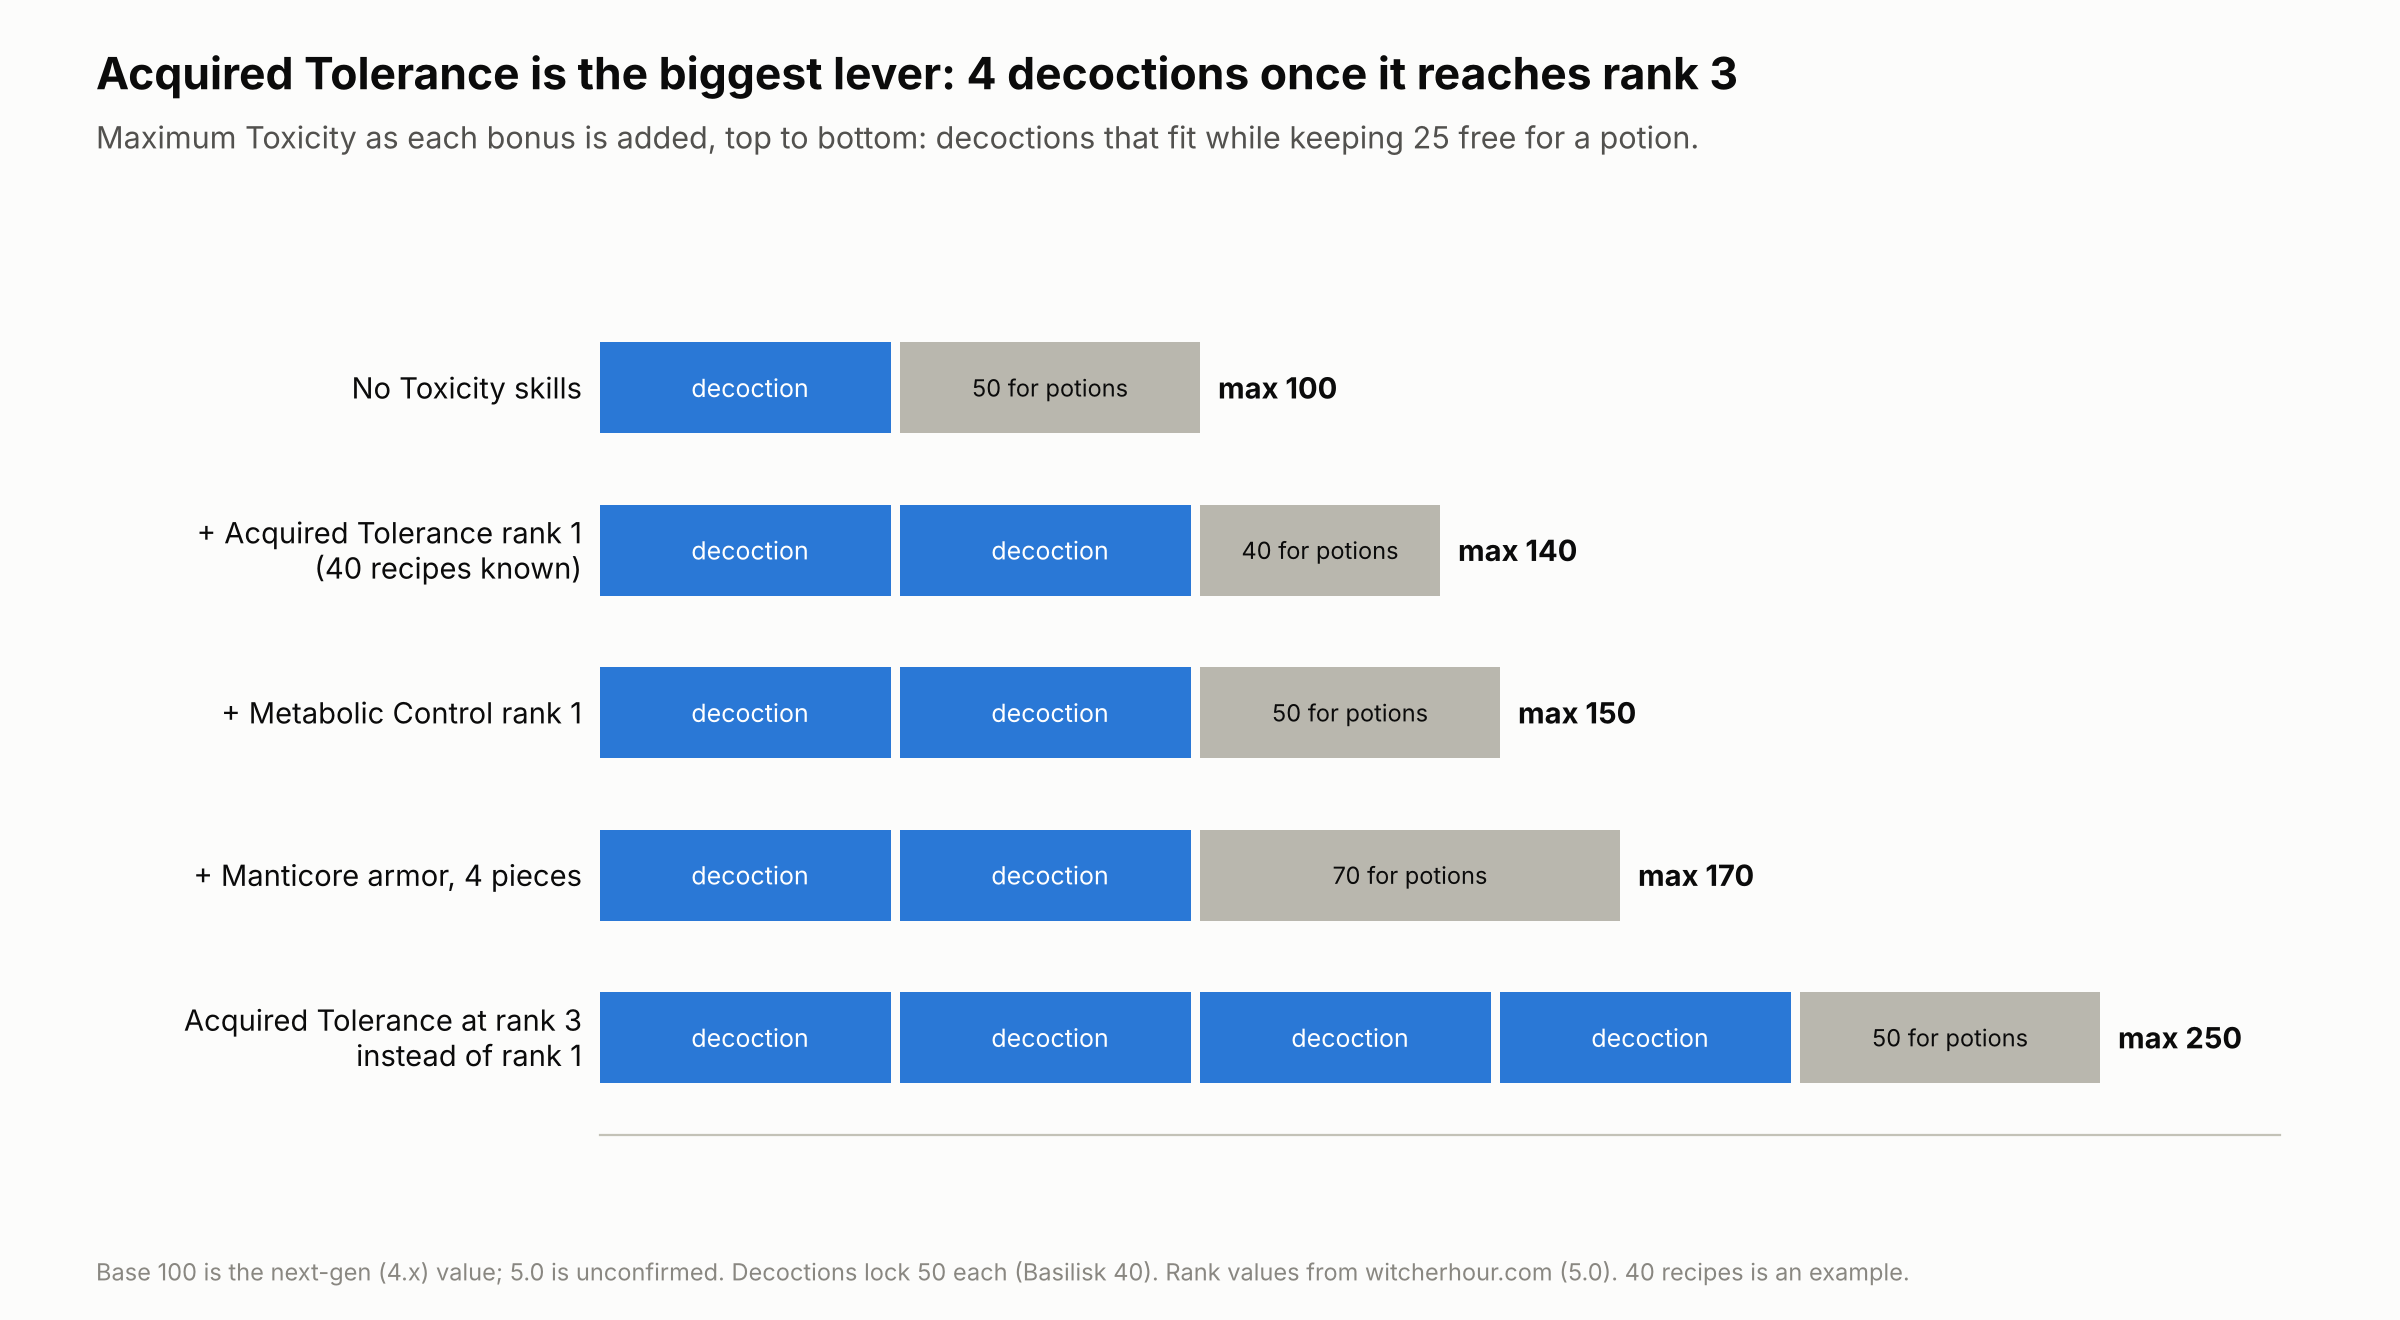
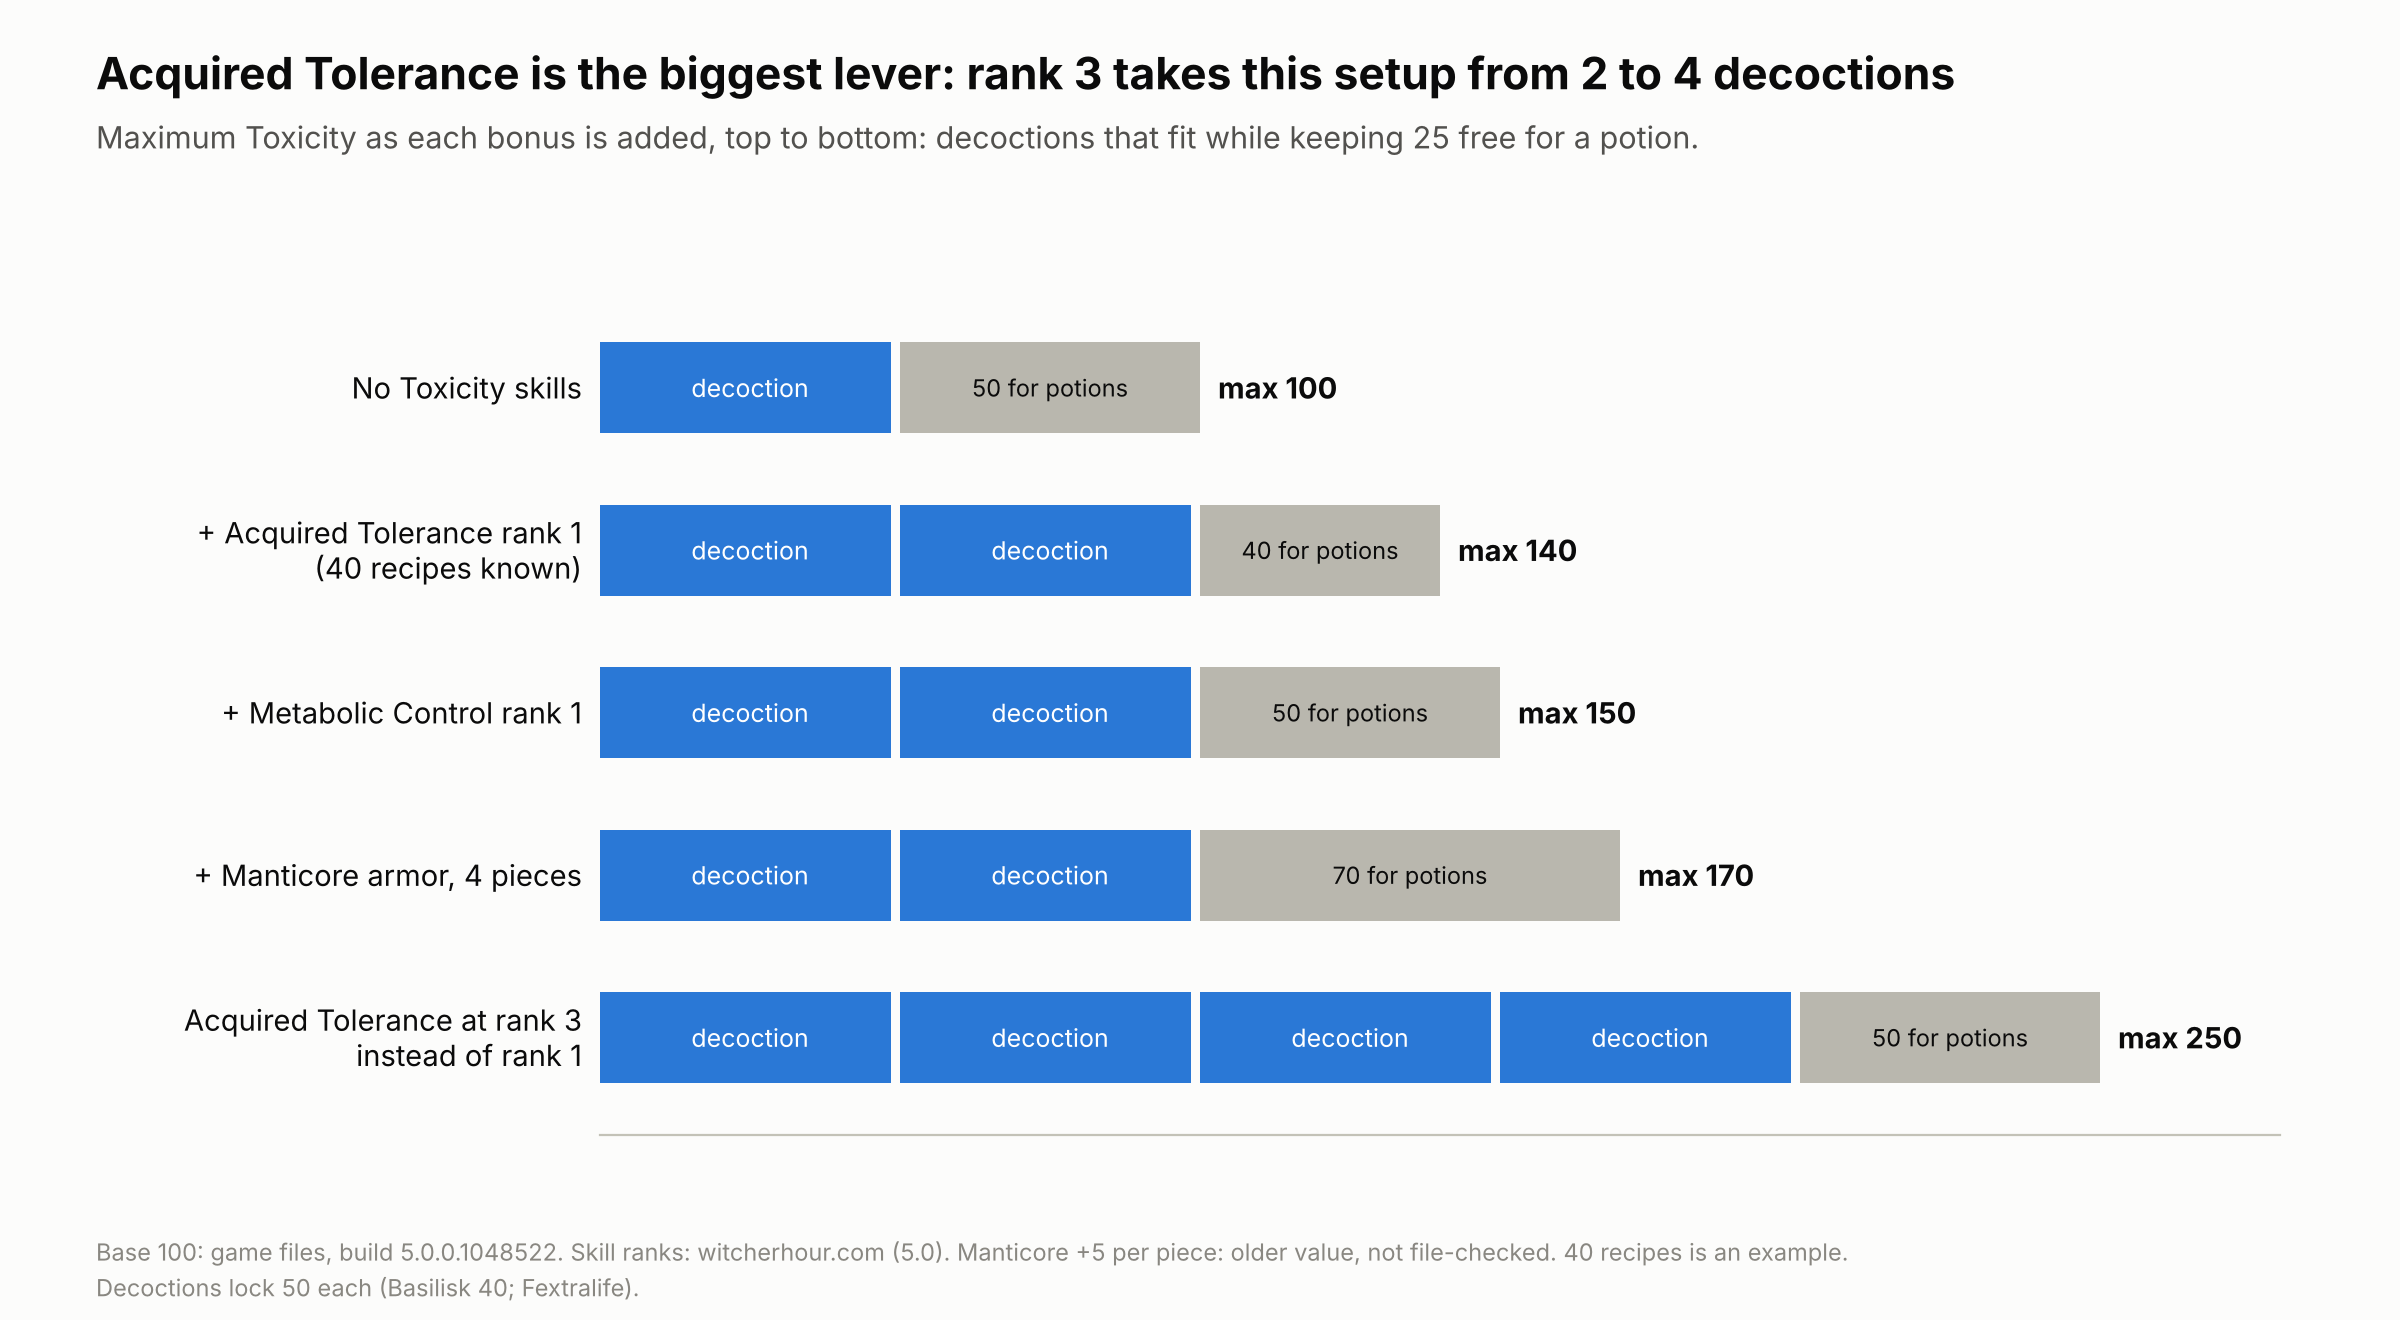
Sync remaining text and charts with the file audit
Carry the build 5.0.0.1048522 findings into the chapters the audit
commit didn't touch:

- Base crit chance (5%) and crit bonus (+0.25 to the attack-power
  multiplier) in chapter 1, replacing "no source publishes".
- Griffin School Techniques Stamina from the perk_24 coefficient
  (0.2% of max Stamina per rank and piece: 0.2/0.4/0.6 per piece,
  2.4/s for four at rank 3) in chapters 1, 3, 7 and 9, with the
  community +1/+4 figures noted as conflicting.
- "Precise Blows" in chapter 20 is Three Strikes' legacy name, not a
  skill missing from 5.0.

Charts: the Toxicity budget footer now cites the file-verified base of
100 and its title states the 2-to-4 decoction step the bars show; the
crit chart names the 5% base that sits under the bonus bars. Remove
combo-ranks.png (withdrawn model) and points-by-phase.png (outdated
after the Three Strikes change); neither was referenced any more.

Claude-Session: https://claude.ai/code/session_014VeGnWR4Kv1J7Ns9vtZgG4

Changed region(s): [[0.0312, 0.9318, 0.7812, 0.9939], [0.4062, 0.0311, 0.8125, 0.0932]]

diff --git a/chapters/01-the-resources.md b/chapters/01-the-resources.md
@@ -29,7 +29,7 @@ Stamina is the bar under your health. It refills on its own and pays for:
 - **Active Shield** (Quen's alternate mode) while you hold it up,
 - sprinting.
 
-What makes it refill faster: lighter armor (heavier armor slows regeneration), every point you spend in the Signs tree (sources give +0.5% or +0.5 per second each; chapter 2), the Tawny Owl potion, Griffin School Techniques at rank 3, and Sun and Stars at night. Sign builds live and die by this bar, which is why both Griffin set bonuses deal with Stamina ([Fextralife: Chest armor](https://thewitcher3.wiki.fextralife.com/Chest+Armor); [witcherhour.com](https://witcherhour.com/skills/)).
+What makes it refill faster: lighter armor (heavier armor slows regeneration), every point you spend in the Signs tree (sources give +0.5% or +0.5 per second each; chapter 2), the Tawny Owl potion, Griffin School Techniques (per medium piece, more at each rank; chapter 3), and Sun and Stars at night. Sign builds live and die by this bar, which is why both Griffin set bonuses deal with Stamina ([Fextralife: Chest armor](https://thewitcher3.wiki.fextralife.com/Chest+Armor); [witcherhour.com](https://witcherhour.com/skills/)).
 
 **Outside combat**, baseline regeneration is **100% of maximum Stamina per second** while active, normally 100 points/s. Action-related pauses can delay it. That rate uses a separate attribute from combat regeneration, so it does not establish casting speed during fights; see [chapter 19's file audit](19-the-maths.md#file-evidence-and-reproducibility).
 
@@ -59,7 +59,7 @@ Fast attacks are quick and safe; strong attacks are slow and hit harder. Patch 5
 - **Crushing Blow:** a 20/40/60% chance that your next two strong attacks deal +50%.
 - **Sunder Armor:** strong attacks strip 10% of the target's damage resistance per stack, up to 1/2/3 stacks.
 
-No source publishes base crit chance or crit damage. What is known is where crits come from: Battle Frenzy and the Katakan decoction for crit chance; Cat School Techniques, Hunter Instinct and High Tolerance for crit damage; and weapons with crit stats, which include most of the best swords in the game (chapter 17). **Armor piercing** is a weapon stat that ignores part of the target's armor; Rend and Superior Grapeshot ignore armor entirely.
+The installed 5.0 files give Geralt a **5% base crit chance**, and his base crit bonus adds **0.25 to the attack-power multiplier** rather than multiplying the whole hit by 1.25 ([chapter 19](19-the-maths.md#3-crits-what-chance-is-worth)). Everything else comes on top: Battle Frenzy and the Katakan decoction for crit chance; Cat School Techniques, Hunter Instinct and High Tolerance for crit damage; and weapons with crit stats, which include most of the best swords in the game (chapter 17). **Armor piercing** is a weapon stat that ignores part of the target's armor; Rend and Superior Grapeshot ignore armor entirely.
 
 ## Signs and Sign intensity
 

diff --git a/chapters/09-griffin.md b/chapters/09-griffin.md
@@ -16,7 +16,7 @@ Kaer Seren fell to an avalanche, triggered by mages angry that the school wouldn
 
 A Griffin fights **inside Yrden**. Magic Trap, Yrden's alternate mode, damages and slows everything within 14 yards. Supercharged Glyphs makes enemies inside it lose Vitality every second, and Catalyst makes Aard and Igni up to 90% stronger against them. Alternating Signs builds Chain Reaction stacks; holding Adrenaline feeds Focus; Firestream turns Igni into a continuous jet. Quen's Active Shield keeps you alive.
 
-The limit is **Stamina**, which pays for every cast. The school answers it at every level: Griffin School Techniques at rank 3 adds Stamina regeneration per medium piece, Sidestep discounts the Sign after a dodge, Firestream gets cheaper as it ranks up, and the Grandmaster set makes follow-up Signs free and adds +5 Stamina per second inside Yrden.
+The limit is **Stamina**, which pays for every cast. The school answers it at every level: Griffin School Techniques adds Stamina regeneration per medium piece at every rank, Sidestep discounts the Sign after a dodge, Firestream gets cheaper as it ranks up, and the Grandmaster set makes follow-up Signs free and adds +5 Stamina per second inside Yrden.
 
 Patch 5.0 buffed Signs, Yrden most of all, and added Catalyst, Chain Reaction and Focus ([witcherhour.com](https://witcherhour.com/skills/)). No school gained more.
 
@@ -50,7 +50,7 @@ Catalyst at your 11th point is the moment the build comes together: from here on
 | Focus | Signs | 1 | Catalyst | +10% Sign intensity per Adrenaline point held |
 | Chain Reaction | Signs | 1 | Catalyst | Each Sign cast raises the next *different* Sign's intensity by 5%, stacking 5 times |
 | Catalyst | Signs | 3 | — | +90% against enemies in Yrden |
-| Griffin School Techniques | General | 3 | — | +6% Sign intensity and +1 Stamina per second per medium piece |
+| Griffin School Techniques | General | 3 | — | +6% Sign intensity and +0.6 Stamina per second per medium piece (game files; community sources say +1) |
 | Anger Management | General | 1 | Griffin School Techniques | With no Stamina left, cast Signs for 2 Adrenaline instead |
 | Synergy | General | 1 | Anger Management | Mutagens 10% stronger |
 | Survival Instinct | General | 1 | Anger Management | +8% max Vitality |

diff --git a/chapters/20-mistakes-and-respec.md b/chapters/20-mistakes-and-respec.md
@@ -7,7 +7,7 @@ Most build problems in 5.0 come from a handful of traps. Each one below is cheap
 1. **Buying ranks without checking activation.** Rank up skills your rotation actually uses, and compare each point with the alternatives it could unlock. More ranks in Three Strikes do not help a repeating three-fast/strong loop, because switching style resets the counter before its fourth-hit check (chapter 19).
 2. **Holding and spending Adrenaline in the same build.** Battle Frenzy, Focus and Mutated Skin reward a full bar; Whirl, Rend, Flood of Anger, Anger Management and the Replenishment runeword spend it. Pick one camp per build (chapter 1). Short Whirls that run on Stamina are the one safe overlap.
 3. **Expecting unslotted skills to work.** Most skills only work while they're in a slot (chapter 2). Stepping stones are fine to leave out; a rank-up on a skill you never slot buys you its branch passive at most (chapter 2).
-4. **Following an old guide's shopping list.** Fixative, Killing Spree, Quen Discharge, Steady Aim and the per-Sign intensity skills are gone; Heightened Tolerance is now High Tolerance and no longer protects you from overdose; Deadly Precision now works only with strong attacks ([witcherhour.com](https://witcherhour.com/skills/)). Some 5.0-era guides still use names like "Precise Blows" that appear in neither of the full 5.0 skill lists (witcherhour and WitcherDB).
+4. **Following an old guide's shopping list.** Fixative, Killing Spree, Quen Discharge, Steady Aim and the per-Sign intensity skills are gone; Heightened Tolerance is now High Tolerance and no longer protects you from overdose; Deadly Precision now works only with strong attacks ([witcherhour.com](https://witcherhour.com/skills/)). Some 5.0-era guides say "Precise Blows": that is Three Strikes' legacy name in the game files, not a separate skill ([chapter 19](19-the-maths.md#10-three-strikes-a-bonus-to-the-fourth-matching-hit)).
 5. **Taking High Tolerance casually.** At 80% Toxicity or more you take 150% damage. It's for experts who rarely get hit.
 6. **Taking Fast Metabolism with Euphoria without thinking it through.** It drains potion Toxicity faster, which lowers Euphoria's bonus between potions. KeenGamer says to skip it; Hack the Minotaur and VGTimes take it (chapter 12).
 

diff --git a/chapters/03-gear-basics.md b/chapters/03-gear-basics.md
@@ -10,12 +10,12 @@ Every armor piece is **light, medium or heavy**. In 5.0 all six School Technique
 | --- | --- | --- | --- | --- |
 | **Cat** | Light | +8% crit damage, +2% fast attack damage | +24% crit damage, +6% fast attack damage | +96% crit damage, +24% fast attack damage |
 | **Wolf** | Medium | +2% weapon damage, +2% Sign intensity | +6% each | +24% each |
-| **Griffin** | Medium | +2% Sign intensity | +6% Sign intensity, +1 Stamina per second | +24% Sign intensity, +4 Stamina per second |
+| **Griffin** | Medium | +2% Sign intensity, +0.2 Stamina per second | +6% Sign intensity, +0.6 Stamina per second | +24% Sign intensity, +2.4 Stamina per second |
 | **Bear** | Heavy | +2% max Vitality, +2% strong attack damage | +6% each | +24% each |
 | **Manticore** | Medium | +2% sword damage, +2% bomb damage | +6% each | +24% each |
 | **Viper** | Medium | +2% max Vitality, +2% poison damage | +6% each | +24% each |
 
-Sources: [WitcherDB planner](https://witcherdb.com/build-planner) (rank 1), [witcherhour.com](https://witcherhour.com/skills/) (all ranks). Witcherhour lists Cat's fast attack bonus at rank 1 as +1%, while WitcherDB and Hack the Minotaur both say +2%; the +1% looks like a typo. Griffin's Stamina bonus shows as 0 per second at rank 1 in WitcherDB and +0.2 per second in the nukesdragons database, and +1 per second at rank 3 in witcherhour; rank 2 isn't published.
+Sources: [WitcherDB planner](https://witcherdb.com/build-planner) (rank 1), [witcherhour.com](https://witcherhour.com/skills/) (all ranks). Witcherhour lists Cat's fast attack bonus at rank 1 as +1%, while WitcherDB and Hack the Minotaur both say +2%; the +1% looks like a typo. Griffin's Stamina figures come from the installed game files instead: 0.2% of maximum Stamina per second for each rank and piece, so 0.2 / 0.4 / 0.6 points per second per piece at the base 100 Stamina, before armor modifiers ([chapter 19](19-the-maths.md#the-remaining-numbers-worth-finding)). The nukesdragons database's +0.2 at rank 1 agrees; witcherhour's +1 per piece at rank 3 (+4 for four) does not. How the bonus adds up with the rest of combat regeneration still needs checking.
 
 Two things follow from this table:
 

diff --git a/chapters/07-choosing-a-school.md b/chapters/07-choosing-a-school.md
@@ -15,7 +15,7 @@ The first is available from your first skill point, the third grows over the who
 | | Feline | Griffin | Ursine | Wolven | Manticore | Viper |
 | --- | --- | --- | --- | --- | --- | --- |
 | **Armor** | Light | Medium | Heavy | Medium | Medium | Medium |
-| **Technique, 4 pieces at rank 3** | +96% crit damage, +24% fast attacks | +24% Sign intensity, +4 Stamina/s | +24% Vitality, +24% strong attacks | +24% weapon damage and Sign intensity | +24% sword and bomb damage | +24% Vitality and poison damage |
+| **Technique, 4 pieces at rank 3** | +96% crit damage, +24% fast attacks | +24% Sign intensity, +2.4 Stamina/s | +24% Vitality, +24% strong attacks | +24% weapon damage and Sign intensity | +24% sword and bomb damage | +24% Vitality and poison damage |
 | **Leans on** | Held Adrenaline, crits | Stamina, Yrden | Vitality, Quen | A bit of everything | Toxicity, decoctions | Poison, oils |
 | **First set tier** | Level 17 | Level 11 | Level 20 | Level 14 (Kaer Morhen) | Level 40 only | Swords level 1, armor 39 |
 | **Grandmaster bonus, short** | Strong attacks power up fast attacks; rear attacks stun | Free follow-up Signs; huge bonuses inside Yrden | Free Quen recasts; Quen damage +200% | Bleeding stacks into sword damage | Bombs crit; +1 charge on every alchemy item | None |

diff --git a/chapters/12-manticore.md b/chapters/12-manticore.md
@@ -109,7 +109,7 @@ Buy each table from the top down; every prerequisite is either already owned or 
 
 ## The maths
 
-![How many decoctions fit at different maximum Toxicity levels: one with no skills, two with Acquired Tolerance rank 1, up to four with Acquired Tolerance rank 3](../images/toxicity-budget.png)
+![How many decoctions fit at different maximum Toxicity levels: one with no skills, two with Acquired Tolerance rank 1, and four with Acquired Tolerance rank 3 plus Metabolic Control and Manticore armor](../images/toxicity-budget.png)
 
 **The Toxicity budget.** A decoction locks 50 Toxicity until it ends, so the number you can run is your maximum, minus room for a potion or two, divided by 50. Acquired Tolerance is the big lever because it scales with every recipe you know: at 40 recipes, rank 3 adds 120. With Metabolic Control rank 3 (+30) and four Manticore pieces (+20) on top, a maximum around 270 fits four decoctions with 70 to spare. The base of 100 is confirmed by [chapter 19's file audit](19-the-maths.md#file-evidence-and-reproducibility) for build `5.0.0.1048522`; the armor and recipe contributions still need their own file checks.
 
